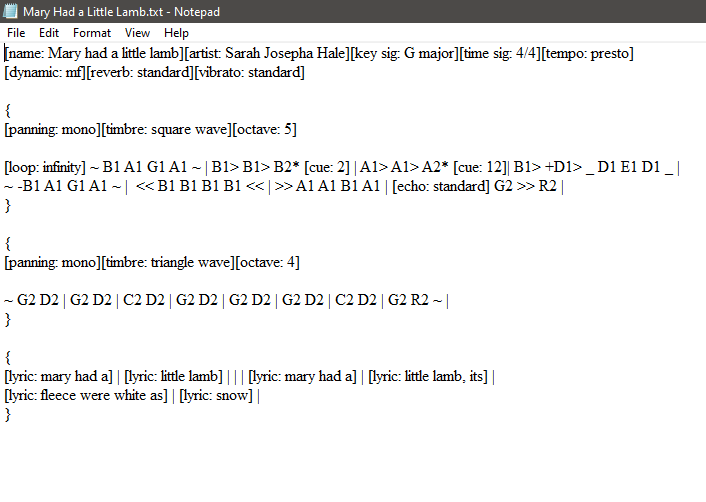
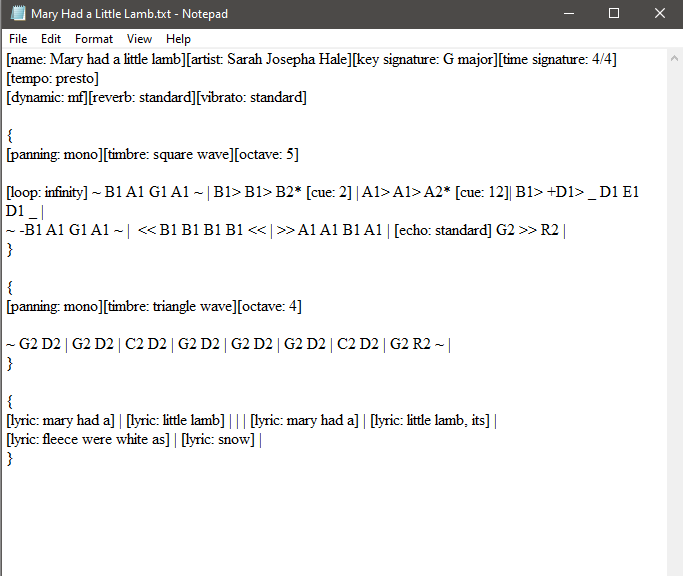
Changed "time sig" to "time signature" and "key sig" to "key signature"

Changed region(s): [[0.0, 0.0, 1.0, 0.8665], [0.9839, 0.0896, 1.0, 0.1195]]

diff --git a/src/ScriptValidator.c b/src/ScriptValidator.c
@@ -168,8 +168,8 @@ int validateScript(char* script)
 					strcmp(header.data, "name") != 0 &&
 					strcmp(header.data, "artist") != 0 &&
 					strcmp(header.data, "lyric") != 0 &&
-					strcmp(header.data, "time sig") != 0 &&
-					strcmp(header.data, "key sig") != 0 &&
+					strcmp(header.data, "time signature") != 0 &&
+					strcmp(header.data, "key signature") != 0 &&
 					strcmp(header.data, "tempo") != 0 &&
 					strcmp(header.data, "timbre") != 0 &&
 					strcmp(header.data, "octave") != 0 &&
@@ -197,7 +197,7 @@ int validateScript(char* script)
 				}
 				break;
 			case ']':
-				if (strcmp(header.data, "time sig") == 0)
+				if (strcmp(header.data, "time signature") == 0)
 				{
 					int valueReadPosition = 0;
 					lb_String upper = lb_newString("");
@@ -221,7 +221,7 @@ int validateScript(char* script)
 					timeSigUpper = atoi(upper.data);
 					timeSigLower = atoi(lower.data);
 				}
-				else if (strcmp(header.data, "key sig") == 0)
+				else if (strcmp(header.data, "key signature") == 0)
 				{
 
 					if (strcmp(value.data, "C major") != 0 &&
@@ -252,12 +252,12 @@ int validateScript(char* script)
 						strcmp(value.data, "D minor") != 0)
 					{
 						printf("Error 0x%X: \tINVALID_KEY_SIG_PROVIDED '%s' at position %d, line %d, column %d.\n",
-							LB_VALIDATION_INVALID_KEY_SIG_PROVIDED,
+							LB_VALIDATION_INVALID_KEY_SIGNATURE_PROVIDED,
 							value.data,
 							readPosition,
 							linePosition,
 							columnPosition);
-						validationStatuses |= LB_VALIDATION_INVALID_KEY_SIG_PROVIDED;
+						validationStatuses |= LB_VALIDATION_INVALID_KEY_SIGNATURE_PROVIDED;
 					}
 				}
 				else if (strcmp(header.data, "tempo") == 0)
@@ -518,8 +518,8 @@ int validateScript(char* script)
 		printf("Error 0x%X: \tINVALID_TIME_SIG_PROVIDED. %d/%d \n",
 			timeSigLower,
 			timeSigUpper,
-			LB_VALIDATION_INVALID_TIME_SIG_PROVIDED);
-		validationStatuses |= LB_VALIDATION_INVALID_TIME_SIG_PROVIDED;
+			LB_VALIDATION_INVALID_TIME_SIGNATURE_PROVIDED);
+		validationStatuses |= LB_VALIDATION_INVALID_TIME_SIGNATURE_PROVIDED;
 	}
 
 	if (trackScopeCount > MAX_TRACKS)

diff --git a/src/Compiler.c b/src/Compiler.c
@@ -264,7 +264,7 @@ void buildCompositionData(lb_Composition* composition, const char* script)
 					valueReadPosition++;
 				}
 			}
-			else if (strcmp(header.data, "key sig") == 0)
+			else if (strcmp(header.data, "key signature") == 0)
 			{
 				if (strcmp(value.data, "C major") == 0)
 					composition->keySignature = LB_KEY_SIGNATURE_C_MAJOR;
@@ -319,7 +319,7 @@ void buildCompositionData(lb_Composition* composition, const char* script)
 				else if (strcmp(value.data, "D minor") == 0)
 					composition->keySignature = LB_KEY_SIGNATURE_D_MINOR;
 			}
-			else if (strcmp(header.data, "time sig") == 0)
+			else if (strcmp(header.data, "time signature") == 0)
 			{
 				int valueReadPosition = 0;
 				lb_String upper = lb_newString("");

diff --git a/src/include/Validation.h b/src/include/Validation.h
@@ -21,8 +21,8 @@ enum validationStatuses
 	LB_VALIDATION_ALL_OK										= 0,
 	LB_VALIDATION_SCRIPT_FILE_NOT_LOADED						= 1,
 	LB_VALIDATION_NO_TRACK_SCOPE_DETECTED						= 1 << 1,
-	LB_VALIDATION_INVALID_TIME_SIG_PROVIDED						= 1 << 2,
-	LB_VALIDATION_INVALID_KEY_SIG_PROVIDED						= 1 << 3,
+	LB_VALIDATION_INVALID_TIME_SIGNATURE_PROVIDED				= 1 << 2,
+	LB_VALIDATION_INVALID_KEY_SIGNATURE_PROVIDED				= 1 << 3,
 	LB_VALIDATION_INVALID_TEMPO_PROVIDED						= 1 << 4,
 	LB_VALIDATION_INVALID_LOOP_VALUE							= 1 << 5,
 	LB_VALIDATION_INVALID_DYNAMICS_VALUE						= 1 << 6,
